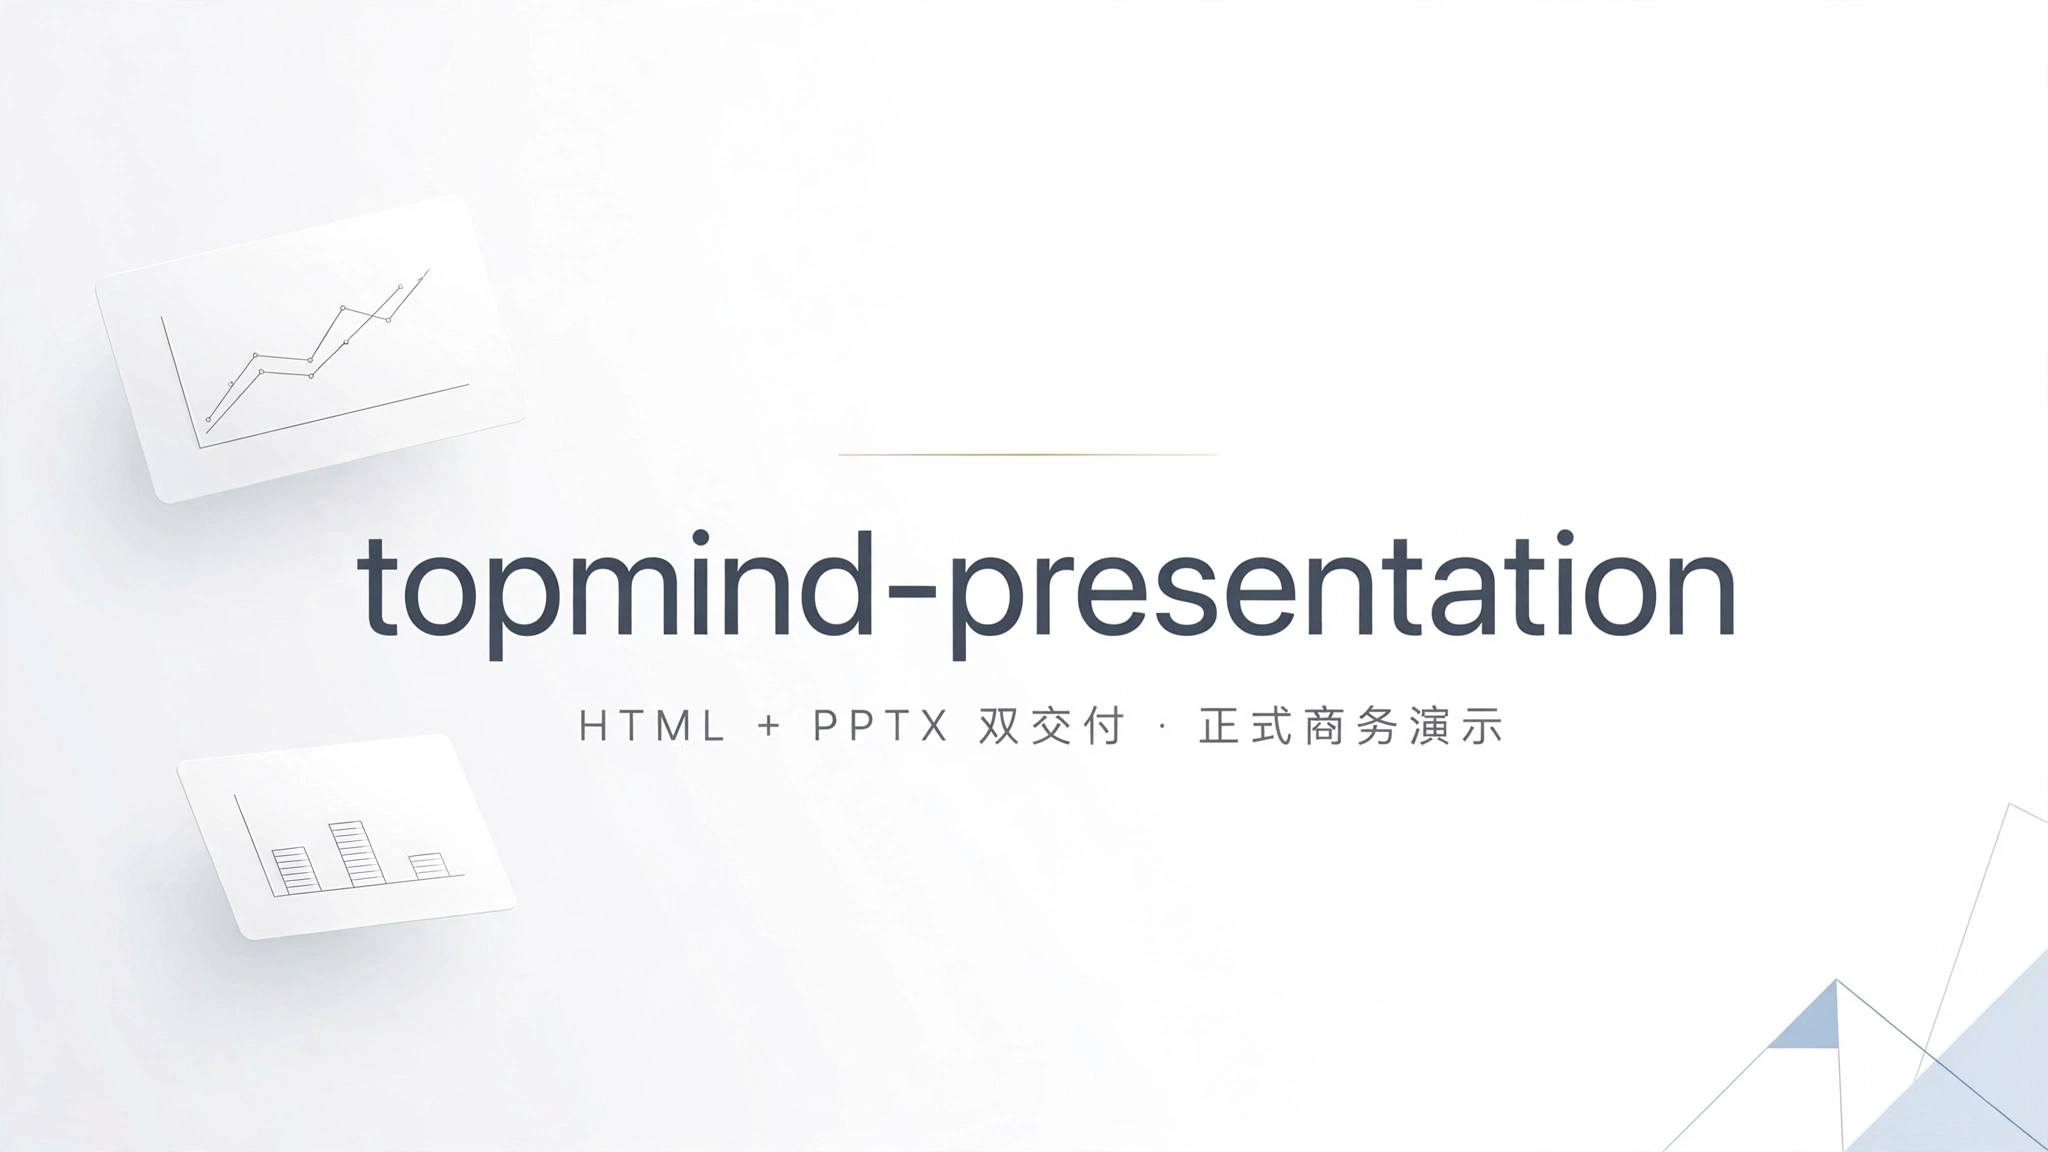
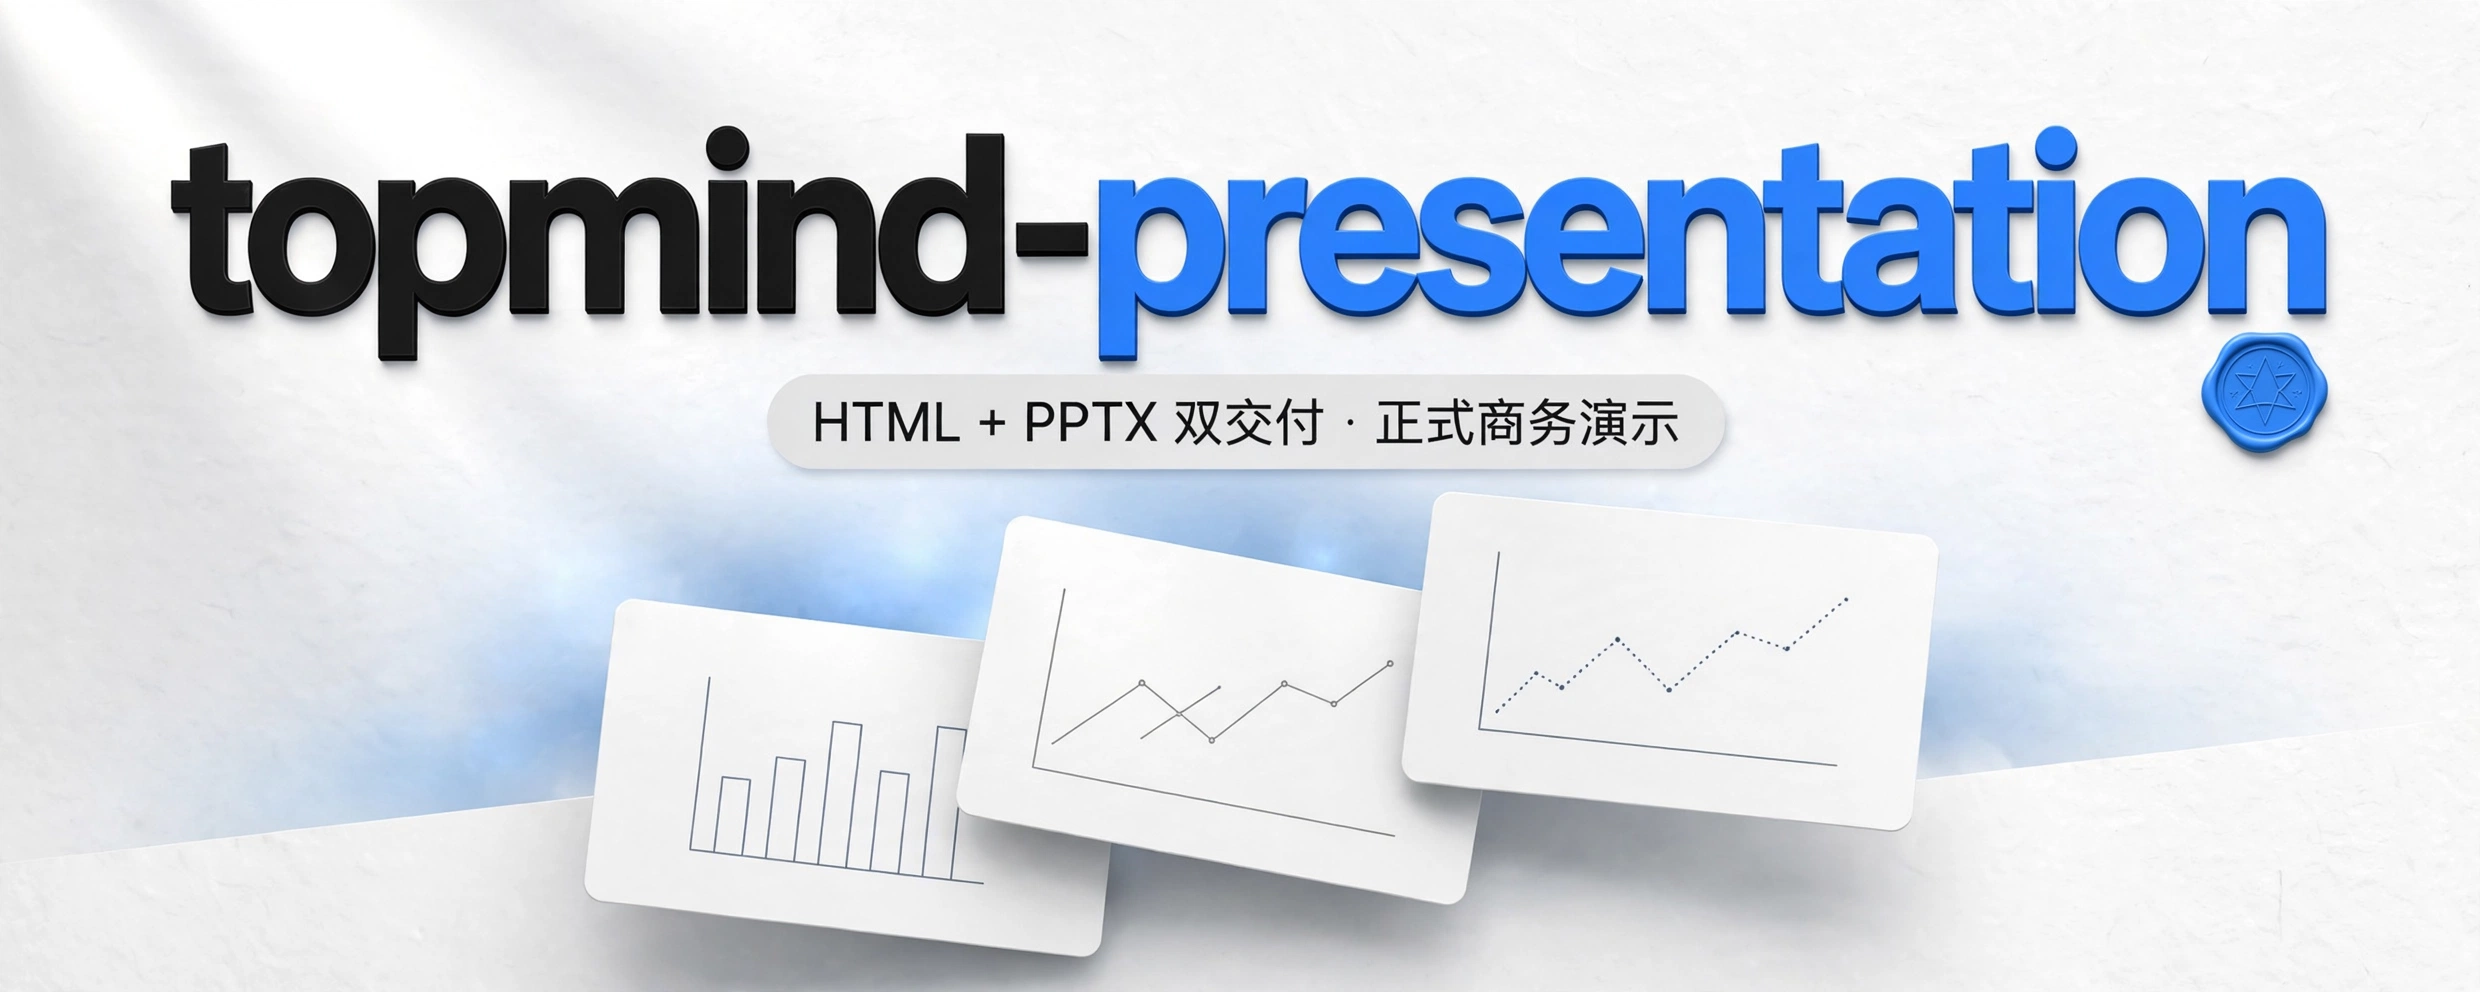
bump: 0.2.3
- README+落地页换按 cover 技能配方新生成的 5:2 白色清新 banner 封面

diff --git a/SKILL.md b/SKILL.md
@@ -20,7 +20,7 @@ triggers:
 description: "为正式商务演示把材料做成可视化报告：零外链可翻页 HTML（日常上台）+ 高保真可编辑 16:9 PPTX（按需）双交付；MD3 式密度克制；三模式（A 演示 / B 研究 / C 架构）× 9 风格；内置 48 原创线性图标 + bento/timeline/2col 弹性版式。Use when 用户要做报告、演示、汇报、PPT、slides、deck、路演，或写研究报告、分析报告、咨询报告、白皮书、调研、评测、对标、经营分析、复盘、项目汇报、商务/HTML/网页报告，或做架构图、拓扑图、流程图、泳道图、方案图，或把材料做成可视化报告并导出 HTML/PPT/PPTX，或优化报告的排版/版式/配色/图文布局，或做报告时说快速模式/fast/直接生成/一键出稿/少问一句。Do NOT use for 纯代码工程、非报告类网页或应用开发、视频/图片生成、直接改写已有 Word/PPT 源文件本身、封面配图（→topmind-cover）。"
 license: MIT
 compatibility: "Python 3 stdlib for HTML generation; Node >=18 + pptxgenjs for PPTX; optional playwright for browser regression / theme captures."
-version: 0.2.2
+version: 0.2.3
 author: TopMindspace
 ---
 # TopPPT HTML

diff --git a/README.en.md b/README.en.md
@@ -10,7 +10,7 @@
 **Let ideas fly — make good thinking visible.** A high-craft skill for **demo reports / formal business presentations**: **HTML + PPT dual delivery** — day-to-day, present with paginated HTML like slides; export **layout-faithful editable PPTX** when needed. **MD3-inspired**: fitting information density, restrained type / shapes / color. Core craft is layout, typography, color, and content structure — not gadget soup.
 
 - Skill id: `topmind-presentation`; brand: **TopPPT HTML**
-- Version: **v0.2.2** (standalone repo, independently versioned)
+- Version: **v0.2.3** (standalone repo, independently versioned)
 - **Agent entry**: `SKILL.md` → `references/playbook.md` (L1) → L2 on demand
 - **Human maintainers**: this README (install / commands / layout); do not treat it as the generation spec
 - The repo is the skill: the repo root is the skill body (SKILL.md + assets + references + scripts)

diff --git a/README.md b/README.md
@@ -10,7 +10,7 @@
 **让 idea 飞，好想法被看见。** 为**演示报告 / 正式商务演示**而生的高品质演示文稿技能：**HTML + PPT 双交付**——日常用可翻页 HTML 等同幻灯片；需要时再导出**版式保真可编辑 PPTX**。参考 **MD3**：合适信息密度、克制文字/图形/颜色。核心工艺是版式、排版、色彩与内容组织——不是 gadget 堆砌。
 
 - 技能标识：`topmind-presentation`；品牌名：**TopPPT HTML**
-- 版本：**v0.2.2**（独立仓库，版本独立演进）
+- 版本：**v0.2.3**（独立仓库，版本独立演进）
 - **智能体入口**：`SKILL.md` → `references/playbook.md`（L1）→ L2 按需
 - **人类维护者**：本 README（安装 / 命令 / 目录）；勿把本文件当生成规范
 - 仓库即技能：本仓库根目录就是技能本体（SKILL.md + assets + references + scripts），没有 monorepo 安装器

diff --git a/CHANGELOG.md b/CHANGELOG.md
@@ -1,6 +1,8 @@
 # CHANGELOG
 
-## [0.2.2] - 2026-10-01
+## [0.2.3] - 2026-10-01
+
+> 0.2.2 → **0.2.3**（patch）。README/落地页换上按 cover 技能配方新生成的白色清新 banner 封面（5:2）。
 
 > 0.2.1 → **0.2.2**（patch）。独立建仓首个发布版。
 
